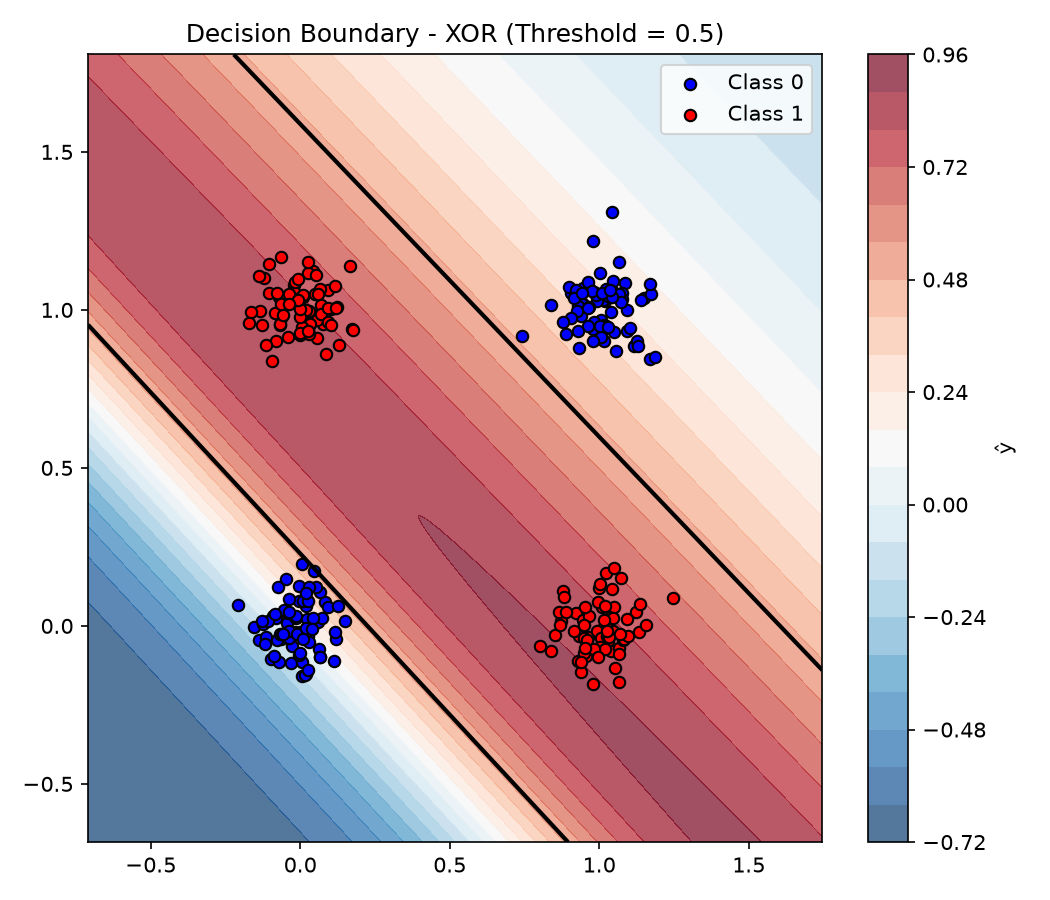
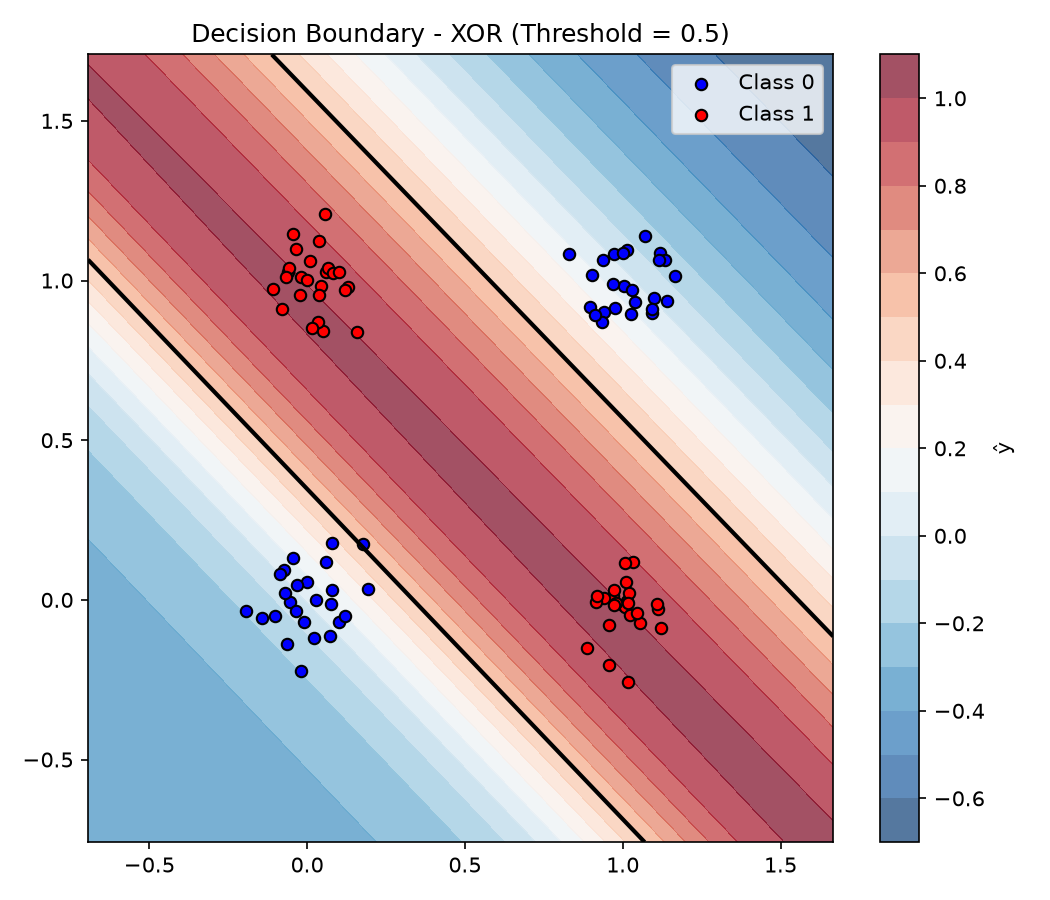
refactor: evaluate model on unseen test data and update visualizations

diff --git a/main.py b/main.py
@@ -1,3 +1,4 @@
+from nn import BCELoss
 import os
 import sys
 import numpy as np
@@ -62,11 +63,14 @@ def main():
     if dataset_name == "moons":
         print("Dataset: Two Moons")
         X, y = data.make_moons(n_samples=300, noise=0.1, seed=42)
+        test_X, test_Y = data.make_moons(n_samples=100, noise=0.1, seed=123)
     else:
         print("Dataset: XOR")
         X, y = data.make_xor(n_samples=300, noise=0.08, seed=42)
+        test_X, test_Y = data.make_xor(n_samples=100, noise=0.08, seed=123)
 
     # 2. Network architecture: 2 inputs -> 2 hidden (Sigmoid) -> 1 output
+    np.random.seed(42)
     model = Network([
         Linear(in_features=2, out_features=2),
         Sigmoid(),
@@ -74,17 +78,18 @@ def main():
     ])
 
     # 3. Train
-    criterion = MSELoss()
-    trainer = Trainer(model, criterion, learning_rate=0.1)
+    loss_fn = MSELoss()
+    trainer = Trainer(model, loss_fn, learning_rate=0.1)
     losses = trainer.fit(X, y, epochs=3000, print_every=100)
 
-    # 4. Evaluation
-    preds = (model.forward(X) >= 0.5).astype(int)
-    acc = np.mean(preds == y) * 100.0
-    print(f"\nFinal Accuracy: {acc:.2f}% | Final Loss: {losses[-1]:.6f}")
+    # 4. Evaluation (using unseen test data)
+    preds = (model.forward(test_X) >= 0.5).astype(int)
+    acc = np.mean(preds == test_Y) * 100.0
+    test_loss = loss_fn.forward(model.forward(test_X), test_Y)
+    print(f"\nTest Accuracy: {acc:.2f}% | Test Loss: {test_loss:.6f}")
 
     # 5. Visualization (saves with dataset prefix)
-    plot_results(model, X, y, losses, prefix=dataset_name)
+    plot_results(model, test_X, test_Y, losses, prefix=dataset_name)
 
 
 if __name__ == "__main__":
